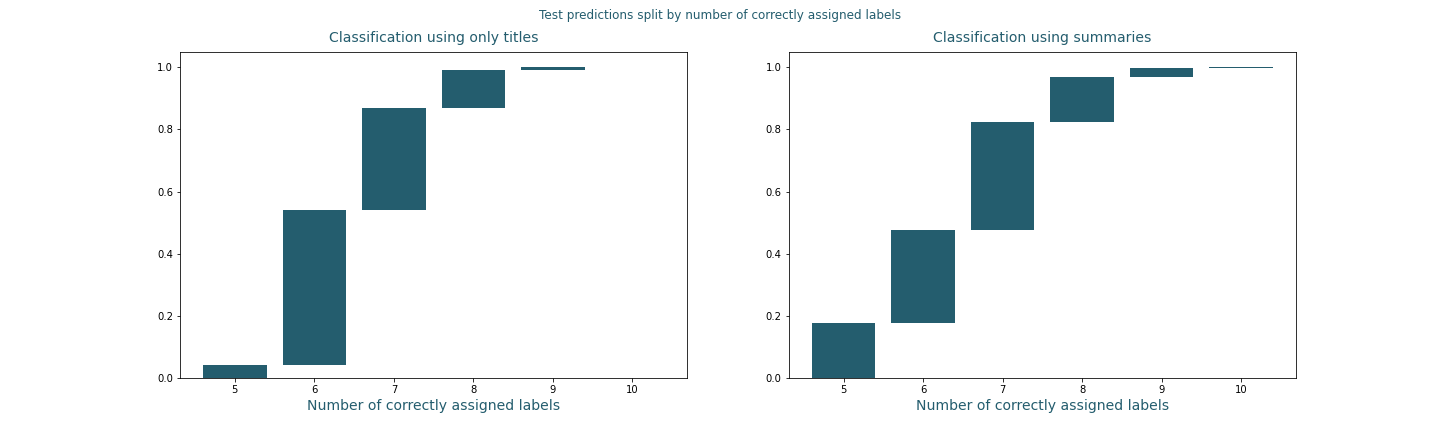
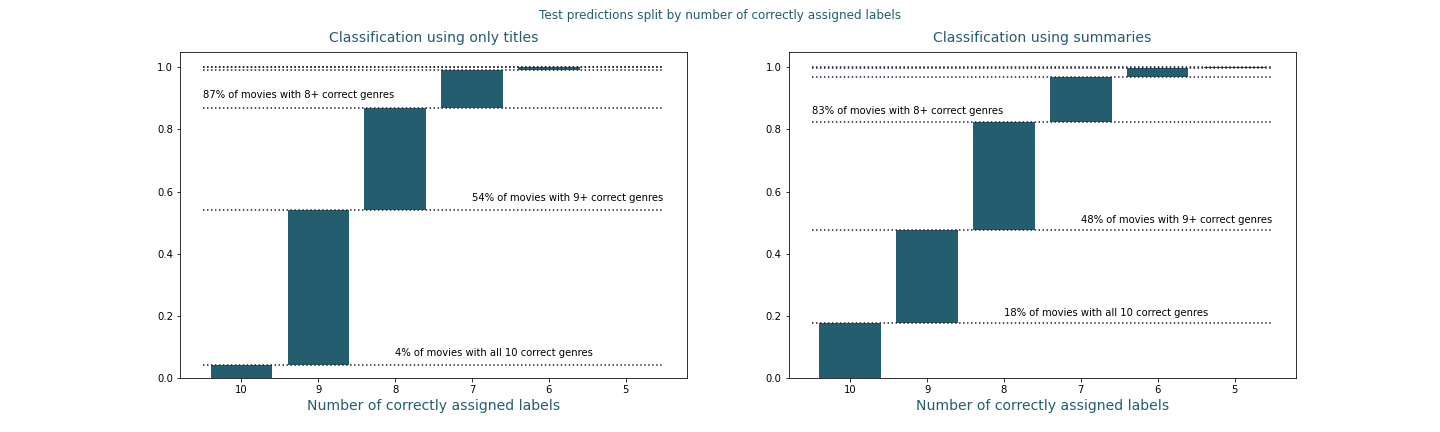
fixed accuracy summary viz

diff --git a/README.md b/README.md
@@ -30,6 +30,8 @@ The apparent mismatch between the score returned by the moc estimators and the a
 
 ![](./accuracy_check.png)
 
+Interestingly, while the classifier trained on titles correctly assigned all genres to only 4% of the test movies, it's accuracy shoots up to 54% and when the problem is defined as "9 or more correct genre labels" and 87% "8 or more correct labels". The corresponding results for the classifier trained on summaries are 18%, 48% and 83%.
+
 ----------------
 ### Possible Project Extensions
 
